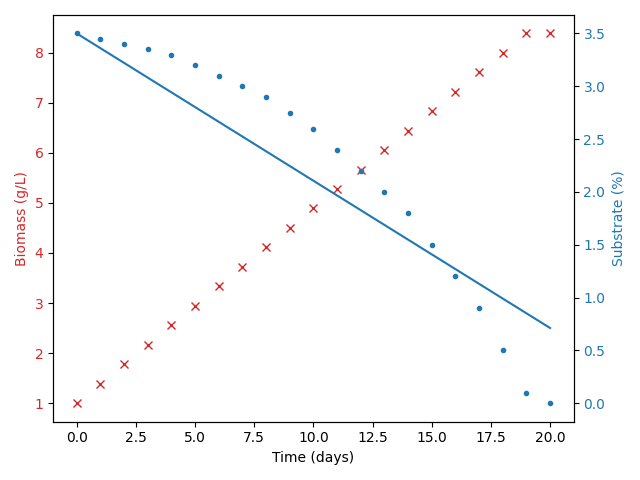
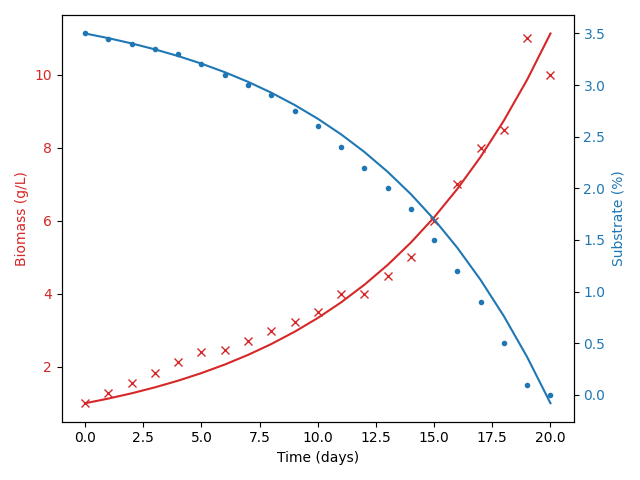
Cell growth model added

diff --git a/GEKKO/Bioreactor/bioreactor.py b/GEKKO/Bioreactor/bioreactor.py
@@ -16,28 +16,40 @@ substrate_data = data_file[:, 2]
 
 # GEKKO model init
 m = GEKKO(remote=False)
-m.time = time #np.linspace(0,20,nt)
+m.time = time  #np.linspace(0,20,nt)
 
 # parameters
-rsmax = m.FV(value=0.05, lb=0); rsmax.STATUS = 1 
-ks = m.FV(value=0.2, lb=0); ks.STATUS = 1  
-x = m.FV(value=cells_data)
+rsmax = m.FV(value=0.05, lb=0); rsmax.STATUS = 1
+ks = m.FV(value=0.2, lb=0); ks.STATUS = 1
+yxs = m.FV(value=5.6, lb=0); ks.STATUS = 1
+mum = m.FV(value=0.118, lb=0); ks.STATUS = 1
 
 # variables
+rs = m.CV(); rs.FSTATUS = 1
+mu = m.CV(); rs.FSTATUS = 1
 s = m.CV(value=substrate_data); s.FSTATUS = 1
+x = m.CV(value=cells_data); s.FSTATUS = 1
 
-# regression equation
-m.Equation(s.dt() == -rsmax * (s * x / (ks + s)))
+# intermediate equations
+m.Equation(rs == rsmax * (s / (ks + s)))
+m.Equation(mu == yxs * rs - mum)
+
+# dynamic equations
+m.Equation(s.dt() == -rs * x)
+m.Equation(x.dt() == mu * x)
 
 # regression mode
-m.options.IMODE = 5   # dynamic estimation
-m.options.NODES = 5   # collocation nodes
-m.options.EV_TYPE = 2 # squared error
-m.solve(disp=True)    # display solver output
+m.options.IMODE = 5  # dynamic estimation
+m.options.NODES = 5  # collocation nodes
+m.options.EV_TYPE = 2  # squared error
+m.solve(disp=True)  # display solver output
 
 # print parameters
-print('Optimized, rsmax = ' + str(rsmax.value[0]) + ' ks = ' +
-      str(ks.value[0]))
+print('Optimized, rsmax = ' + str(rsmax.value[0]) 
+  + ' ks = ' + str(ks.value[0])
+  + ' yxs = ' + str(yxs.value[0])
+  + ' mum = ' + str(mum.value[0])
+)
 
 #
 # Plot curve(s)
@@ -50,6 +62,9 @@ ax1.set_xlabel('Time (days)')
 ax1.set_ylabel('Biomass (g/L)', color=color)
 ax1.plot(time, cells_data, color=color, marker=marker, linestyle='None')
 ax1.tick_params(axis='y', labelcolor=color)
+
+# cells model curve 
+ax1.plot(time, x, color=color, marker='None')
 
 ax2 = ax1.twinx()  # instantiate a second axes that shares the same x-axis
 
